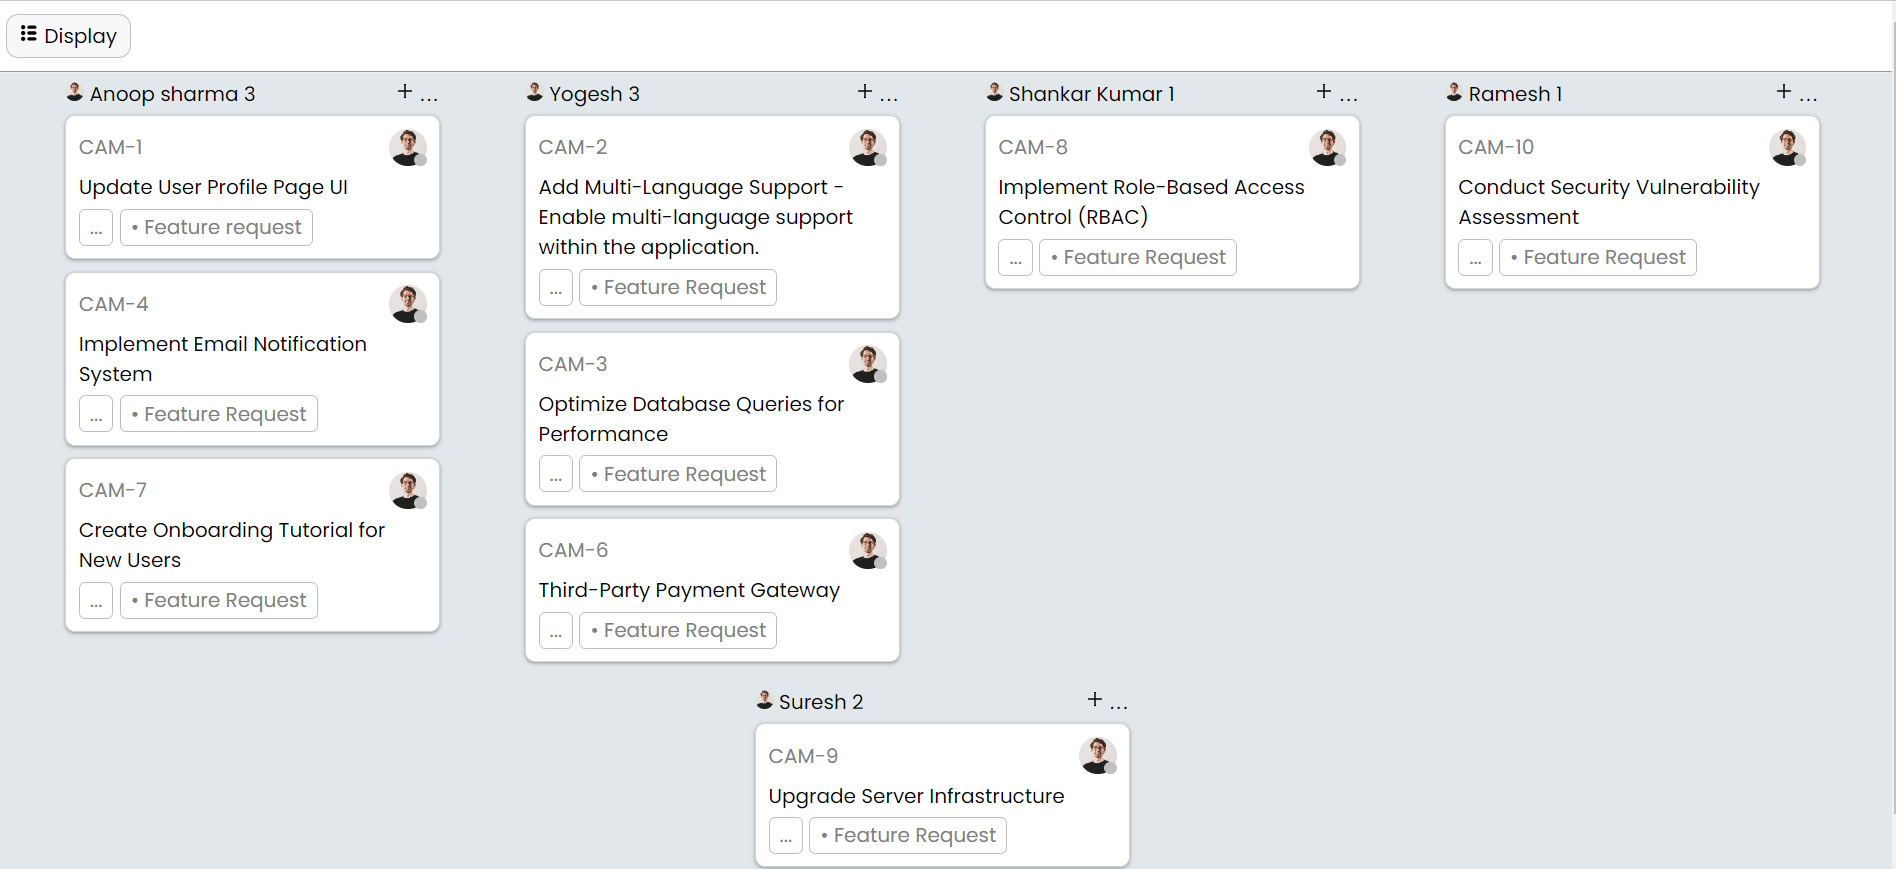
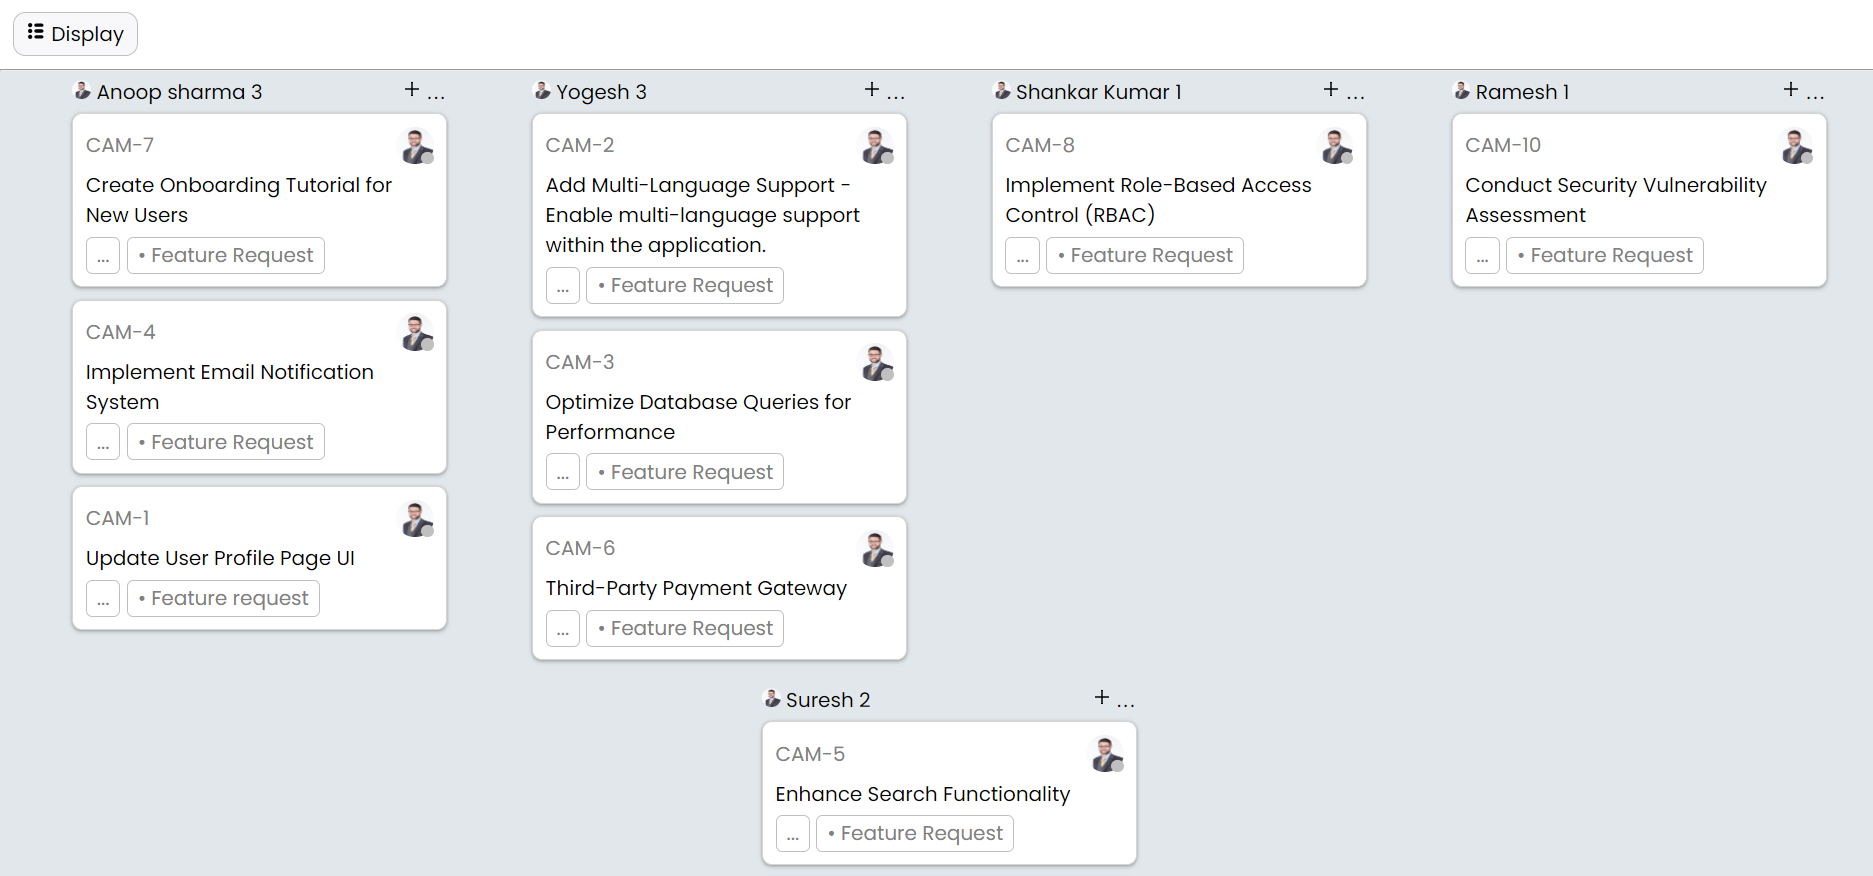
Add files via upload

Changed region(s): [[0.0, 0.0, 1.0, 1.0]]

diff --git a/src/components/Card/Card.jsx b/src/components/Card/Card.jsx
@@ -7,7 +7,7 @@ const Card = ({id, title, tag, status}) => {
         <div className="cardHeading flex-sb">
             <span style={{textTransform : "uppercase"}} className='color-grey'>{id}</span>
             <div className="imageContainer relative" style={{ width : "30px", height : "30px"}}>
-                <img style={{width : "100%", height : "100%",  borderRadius : "50%" }}  src="https://images.unsplash.com/photo-1633332755192-727a05c4013d?ixlib=rb-4.0.3&ixid=M3wxMjA3fDB8MHxzZWFyY2h8Mnx8dXNlcnxlbnwwfHwwfHx8MA%3D%3D&w=1000&q=80" alt="UserImage" />
+                <img style={{width : "100%", height : "100%",  borderRadius : "50%" }}  src="https://images.unsplash.com/photo-1568316674077-d72ee56de61c?ixlib=rb-4.0.3&ixid=M3wxMjA3fDB8MHxwaG90by1wYWdlfHx8fGVufDB8fHx8fA%3D%3D&auto=format&fit=crop&w=1964&q=80" alt="UserImage" />
                 <div className="showStatus"></div>
             </div>
         </div>

diff --git a/src/components/DashBoard/DashView.jsx b/src/components/DashBoard/DashView.jsx
@@ -33,7 +33,7 @@ const DashView = () => {
                               height: "100%",
                               borderRadius: "50%",
                             }}
-                            src="https://images.unsplash.com/photo-1633332755192-727a05c4013d?ixlib=rb-4.0.3&ixid=M3wxMjA3fDB8MHxzZWFyY2h8Mnx8dXNlcnxlbnwwfHwwfHx8MA%3D%3D&w=1000&q=80"
+                            src="https://images.unsplash.com/photo-1568316674077-d72ee56de61c?ixlib=rb-4.0.3&ixid=M3wxMjA3fDB8MHxwaG90by1wYWdlfHx8fGVufDB8fHx8fA%3D%3D&auto=format&fit=crop&w=1964&q=80"
                             alt="UserImage"
                           />
                         </div>
